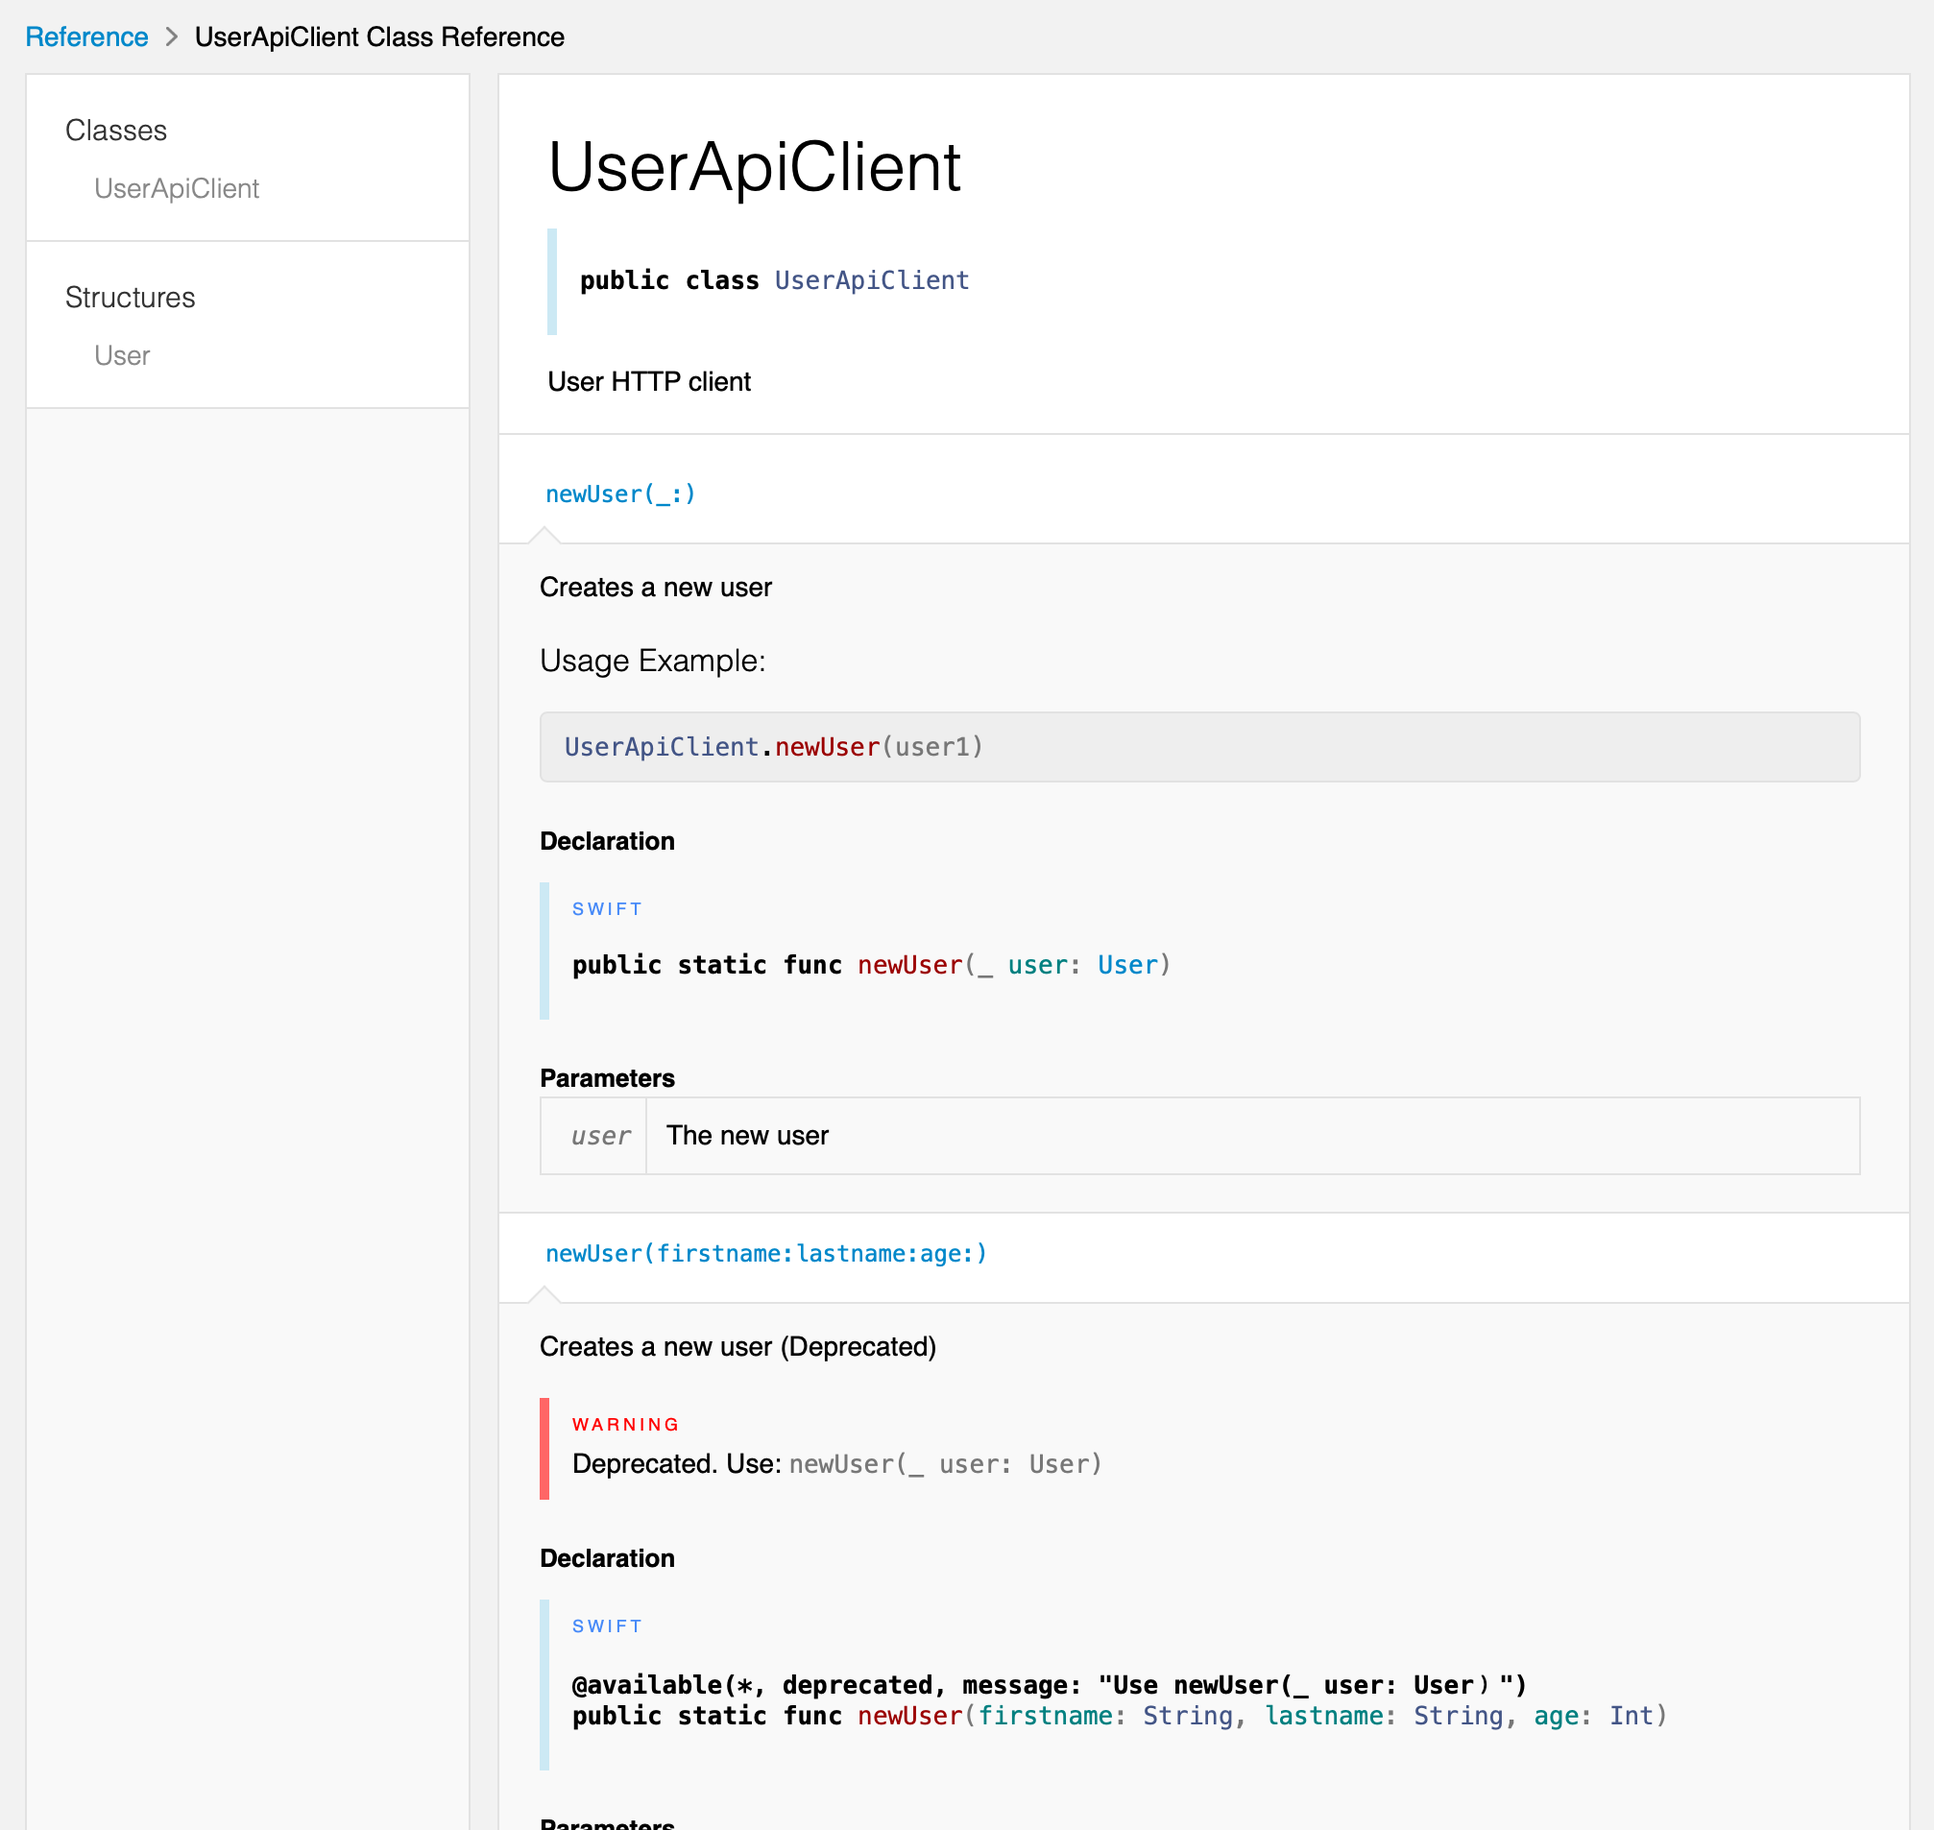
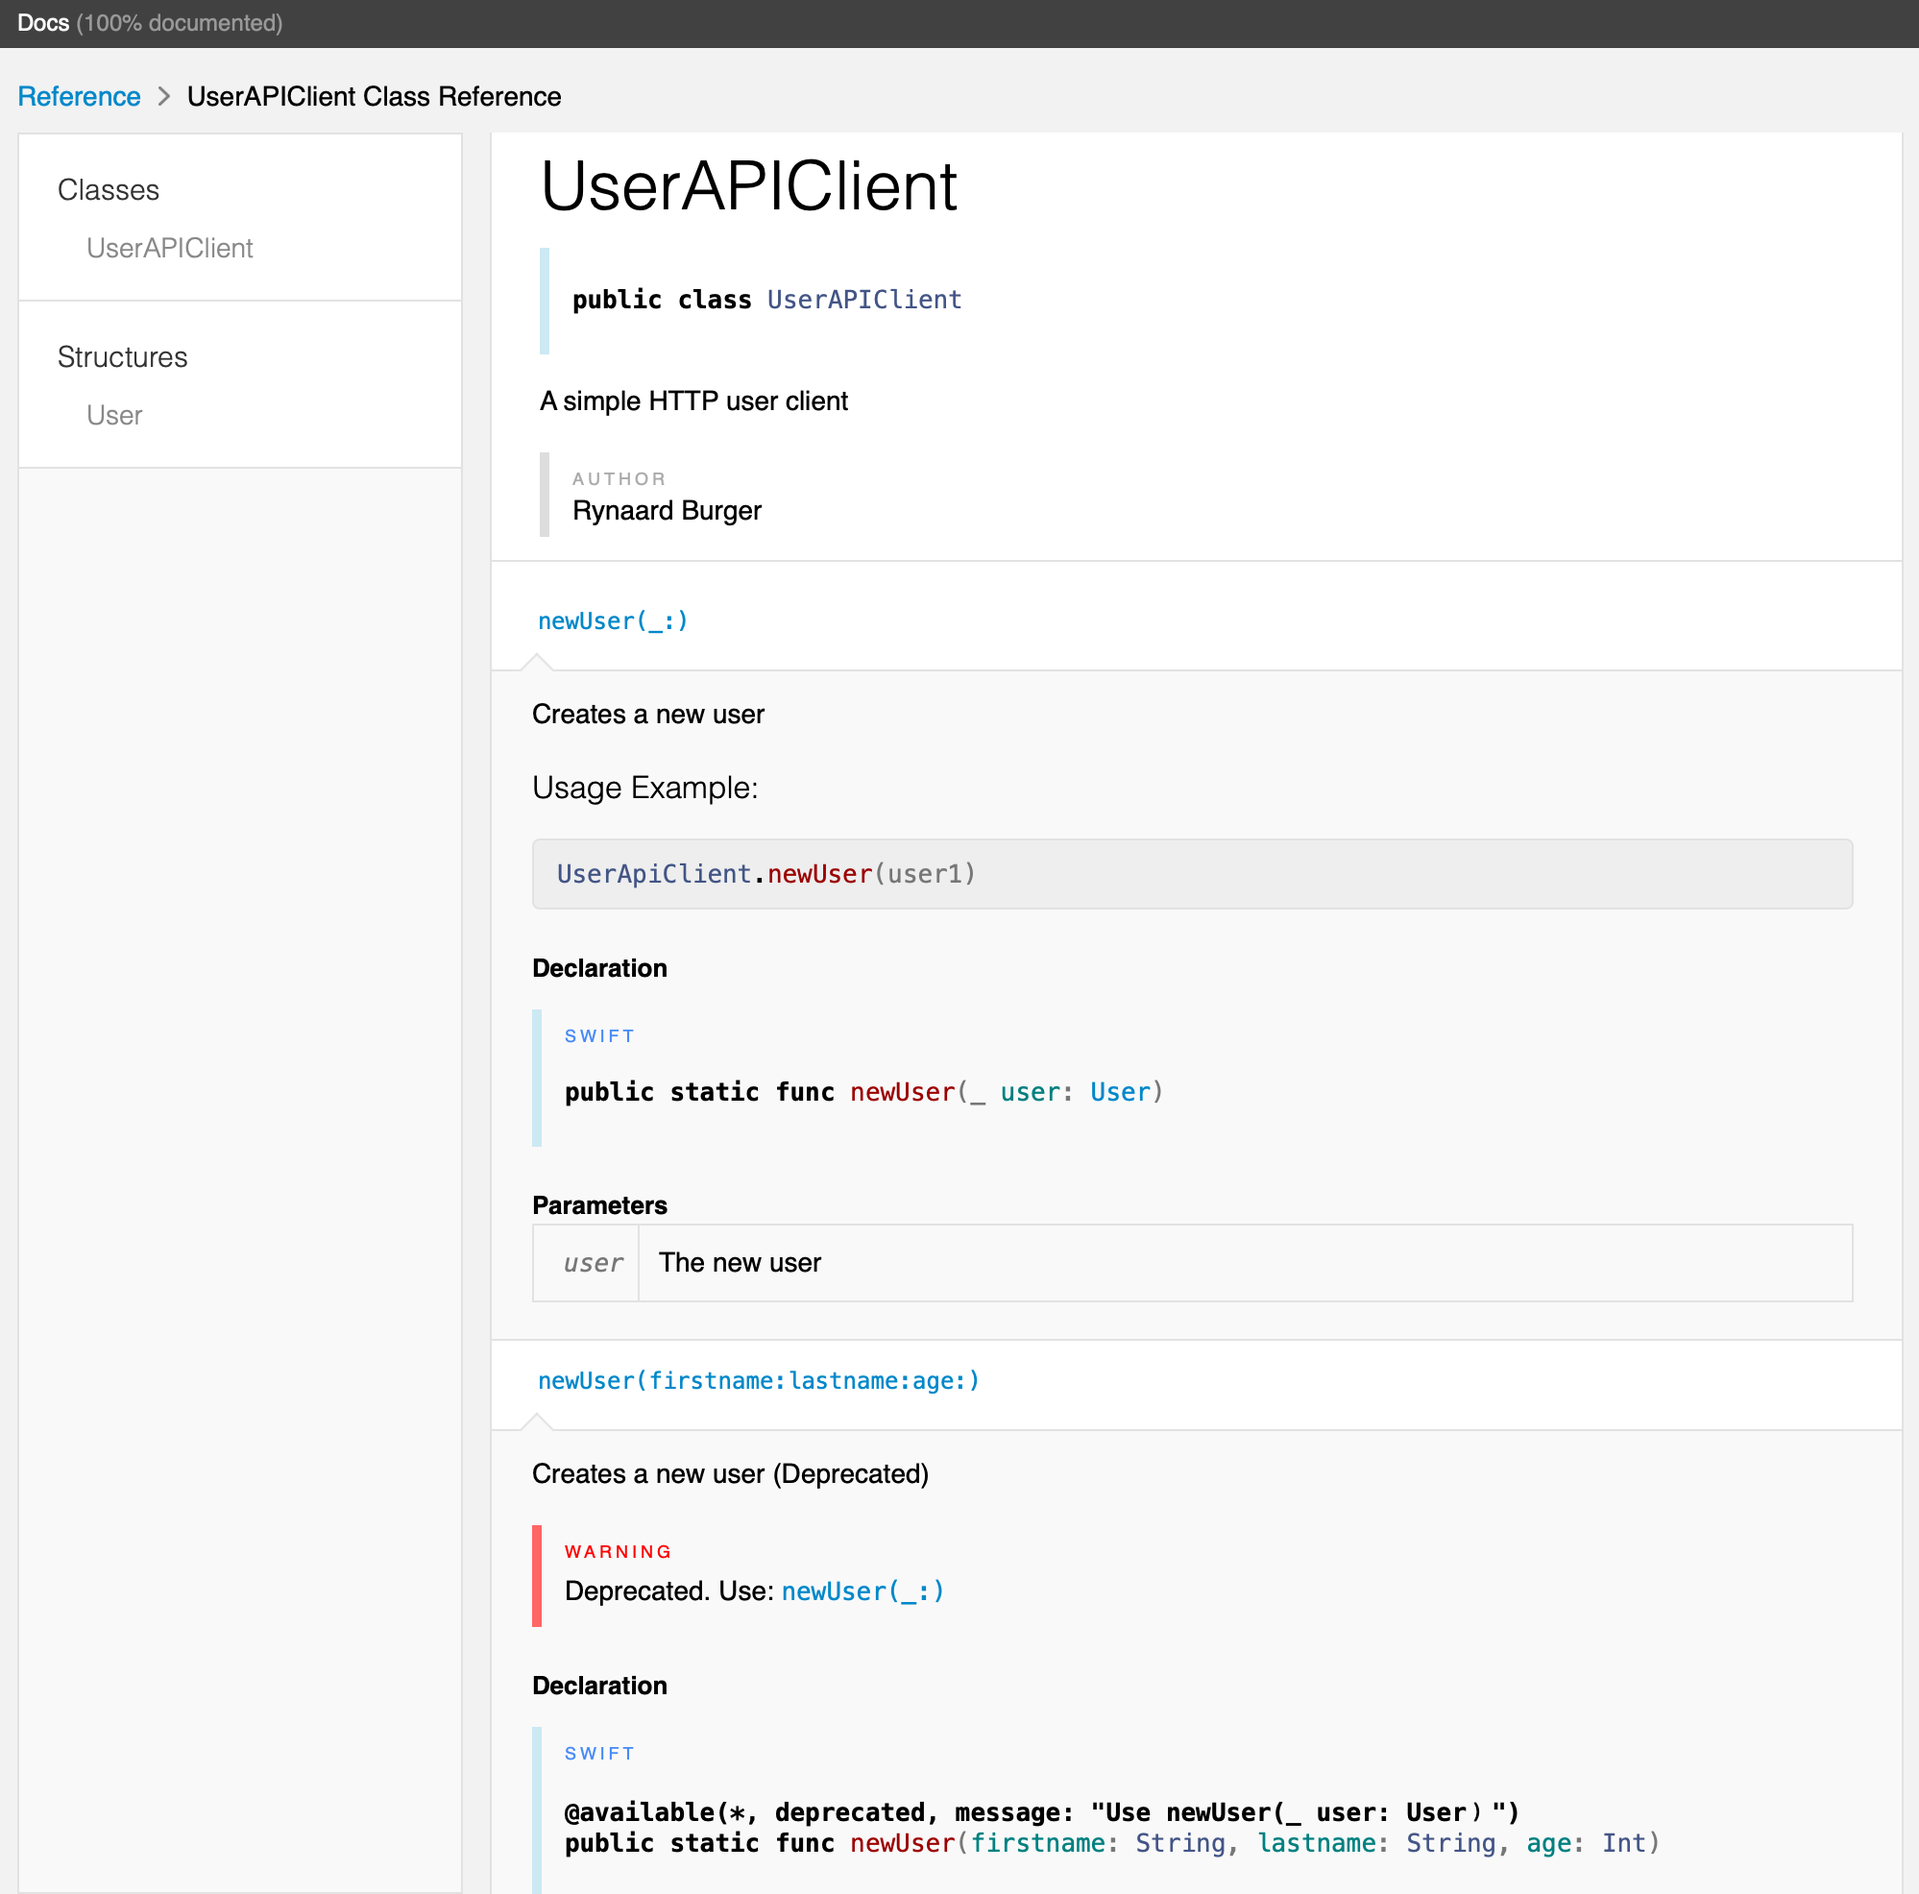
publishing new post

diff --git a/_posts/2019-03-23-modern-objc-swift-documentation-with-jazzy.md b/_posts/2019-03-23-modern-objc-swift-documentation-with-jazzy.md
@@ -1,0 +1,151 @@
+---
+layout: single
+title: "Modern Objective-C and Swift documentation with Jazzy"
+date: 2019-03-23
+categories: posts
+classes: wide
+tags: ios swift objective-c jazzy documentation xcode code clang sourcekit ast
+---
+
+[Jazzy](https://github.com/realm/jazzy) is a command-line utility that generates documentation for both Swift and Objective-C. Instead of parsing your source files, jazzy hooks into [Clang](https://clang.llvm.org/) and [SourceKit](https://www.jpsim.com/uncovering-sourcekit) to use the [AST](https://clang.llvm.org/docs/IntroductionToTheClangAST.html) representation of your code and its comments for more accurate results. With a little bit of manual effort and some markdown goodness you can generate great looking HTML documentation using jazzy.
+
+## Installation
+
+To install jazzy simply install the ruby gem:
+
+```bash
+sudo gem install ruby
+```
+## Adding code documentation
+
+In order to have the documentation generated by jazzy you first need to add code documentation using Xcode's documentation markup and / or standard markdown. Before getting started you might also want to have a look at the following resources:
+
+* [Xocde Markup Formatting Reference](https://developer.apple.com/library/archive/documentation/Xcode/Reference/xcode_markup_formatting_ref/)
+* [Markdown Cheatsheet by Adam Pritchard](https://github.com/adam-p/markdown-here/wiki/Markdown-Cheatsheet)
+
+The documentation you add to your source files will be used by jazzy in order to generate the HTML documentation. In the example below I have added code documentation for a class, struct, enum and two functions, one of them being marked as deprecated:
+
+```swift
+/**
+ A simple HTTP user client
+
+ - Author:
+ Rynaard Burger
+ */
+
+import Foundation
+
+/// User HTTP client
+public class UserApiClient {
+
+    /// Representation of a user
+    public struct User: Codable {
+        let firstname: String
+        let lastname: String
+        let age: Int
+
+        /// User status
+        ///
+        /// - active: User is active
+        /// - blocked: User is blocked
+        enum Status {
+            case active, blocked
+        }
+    }
+
+    /**
+     Creates a new user
+     - Parameter user: The new user
+
+     ### Usage Example: ###
+     ````
+     UserApiClient.newUser(user1)
+     ````
+     */
+    public static func newUser(_ user: User) {
+        fatalError("not yet implemented")
+    }
+
+    /// Creates a new user (Deprecated)
+    ///
+    /// - Parameters:
+    ///   - firstname: User firstname
+    ///   - lastname: User lastname
+    ///   - age: User age
+    /// - warning: Deprecated. Use: `UserApiClient.newUser(_ user: User)`
+    @available(*, deprecated, message: "Use newUser(_ user: User)")
+    public static func newUser(firstname: String, lastname: String, age: Int) {
+        fatalError("not yet implemented")
+    }
+}
+```
+
+Pro tip: you can use the ⌥ (option) + ⌘ (command) + / while on the line of a class, struct, function, etc. to automatically add the documentation for you.
+
+Swift and Objective-C documentation is written in markdown but also supports a number of special keywords, some of which includes:
+
+**Swift:**
+
+* `- warning`
+* `- see`
+* `- note`
+
+**Objective-C:**
+
+* `@warning`
+* `@see`
+* `@note`
+
+## Generating the HTML documentation
+
+Generating the documentation is really easy, just go to the folder where your Xcode project is located and run the following command:
+
+```bash
+jazzy
+```
+
+This will generate Swift documentation using the default options but your can actually do a whole lot more. You can always have a look at all the options available by running: `jazzy -h`.
+
+For example, you can specify the author, link to the author's website, link to a GitHub page etc:
+
+**Swift:**
+
+```bash
+jazzy \                                                                                  
+--clean \
+--author "Rynaard Burger" \
+--author_url https://rynaard.com \
+--github_url https://github.com/rynaardb/jazzy-documentation
+```
+
+**Objective-C:**
+
+For Objective-C you must also pass the following parameters to jazzy:
+
+* `--objc`
+* `--umbrella-header ...`
+* `--framework-root ...`
+* `--sdk [iphone|watch|appletv][os|simulator]|macosx` (optional, default value of macosx)
+* `--hide-declarations [objc|swift]` (optional, hides the selected language declarations)
+
+What you get is you is beautiful looking HTML documentation very similar to Apple's official documentation. All with just a few lines of code documentation and markdown:
+
+![image](/assets/images/jazzy-docs-1.png)
+
+## Other benefits
+
+Another benefit of adding code documentation is that you also get full autocomplete and Quick Help support right in Xcode with no additional effort required.
+
+![image](/assets/images/jazzy-docs-2.png)
+
+To view the Quick Help you can use ⌥ (option) + right click on a type or function, or alternatively you can also click on the "Show Quick Help inspector" button on the right in Xcode.
+
+![image](/assets/images/jazzy-docs-3.png)
+
+## Summary
+
+There is nothing worse than having to search through header files or actual implementation files just to figure out how things fit together. Having good documentation, especially for APIs or frameworks consumed by others, makes it so much easier to get started and to quickly figure out how everything is supposed to work together. 
+
+Using jazzy there is no excuse why you cannot have nice looking documentation with very little effort.
+
+The example Xcode project can be found on my GitHub [repository](https://github.com/rynaardb/jazzy-documentation).
